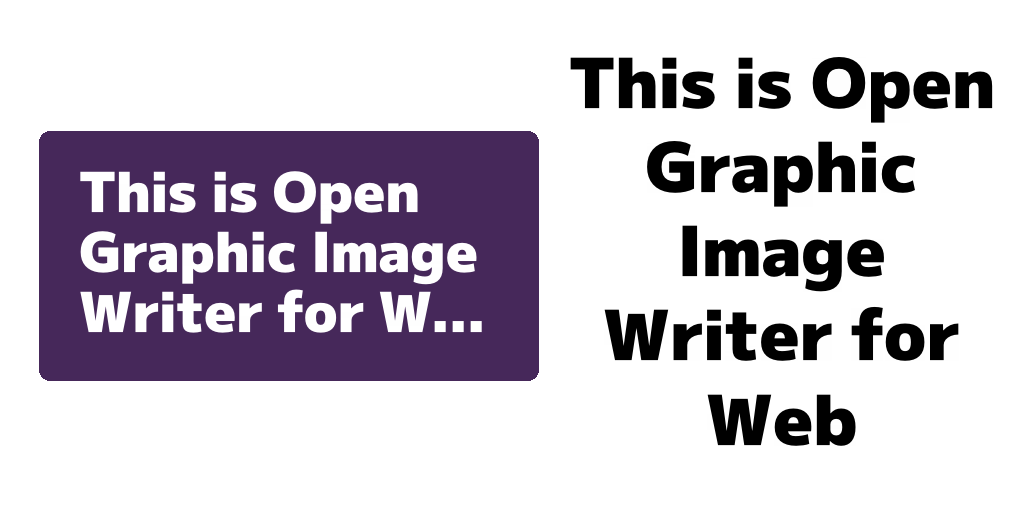
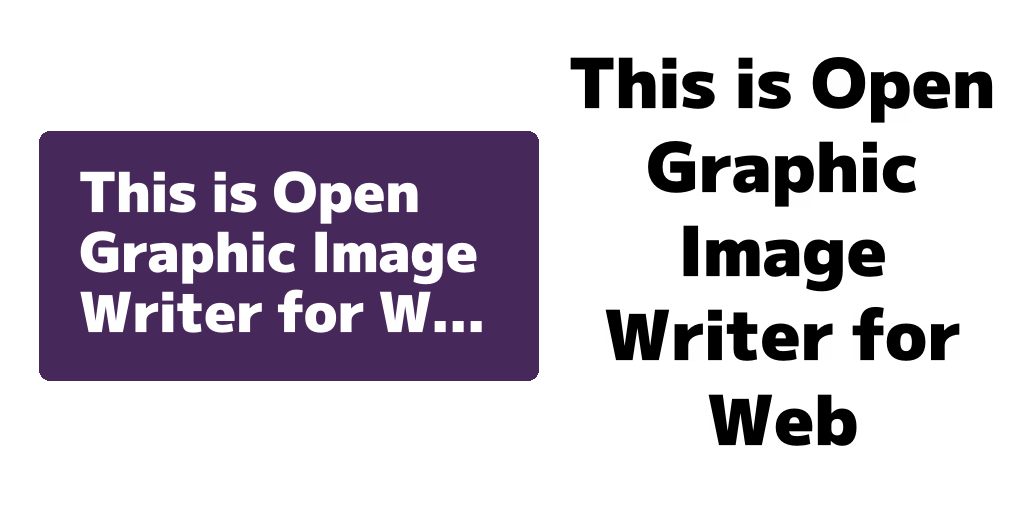
fix: fix margin process

diff --git a/og_image_writer/src/layout.rs b/og_image_writer/src/layout.rs
@@ -20,26 +20,21 @@ impl<'a> OGImageWriter<'a> {
         let mut current_y = self.calculate_logical_block() as i32;
         let mut current_x = self.calculate_logical_inline() as i32;
 
-        let tree_len = self.tree.len() - 1;
-        let mut idx = 0;
-
         let mut tree = OGImageWriter::create_tree();
         while let Some(mut elm) = self.tree.pop() {
-            let is_last = idx == tree_len;
             if elm.is_absolute() {
                 self.process_absolute(&mut elm);
             } else {
                 match self.window.flex_direction {
                     FlexDirection::Column => {
-                        self.process_column_flexbox(&mut elm, &mut current_y, is_last)
+                        self.process_column_flexbox(&mut elm, &mut current_y)
                     }
                     FlexDirection::Row => {
-                        self.process_row_flexbox(&mut elm, &mut current_x, is_last)
+                        self.process_row_flexbox(&mut elm, &mut current_x)
                     }
                 }
             }
 
-            idx += 1;
             tree.push(elm);
         }
         self.tree.append(&mut tree);
@@ -83,50 +78,31 @@ impl<'a> OGImageWriter<'a> {
         }
     }
 
-    fn process_column_flexbox(&mut self, elm: &mut Element, current_y: &mut i32, is_last: bool) {
+    fn process_column_flexbox(&mut self, elm: &mut Element, current_y: &mut i32) {
         let window_width = self.window.width as i32;
-        let content_width = if self.content.width > self.window.width {
-            window_width
-        } else {
-            self.content.width as i32
-        };
         let is_end = matches!(self.window.justify_content, JustifyContent::End);
         match elm {
             Element::Img(Some(img)) => {
-                let Margin(margin_top, margin_left, margin_bottom, margin_right) = img.style.margin;
+                let Margin(margin_top, margin_right, margin_bottom, margin_left) = img.style.margin;
 
                 let logical_inline = match &self.window.align_items {
                     AlignItems::Start => margin_left,
-                    AlignItems::Center => {
-                        let center_width = window_width / 2 - content_width / 2 + margin_left;
-                        if is_last {
-                            center_width - margin_right
-                        } else {
-                            center_width
-                        }
-                    }
-                    AlignItems::End => window_width - content_width - margin_right,
+                    AlignItems::Center => window_width / 2 - img.rect.width as i32 / 2 + margin_left - margin_right,
+                    AlignItems::End => window_width - img.rect.width as i32 - margin_right,
                 };
 
-                let content_box_inline = match img.style.text_align {
-                    TextAlign::Start => 0,
-                    TextAlign::Center => content_width / 2 - (img.width as i32 / 2),
-                    TextAlign::End => content_width - img.width as i32,
-                } + logical_inline;
-
-                img.rect.x = content_box_inline as u32;
+                img.rect.x = logical_inline as u32;
 
                 if is_end {
-                    img.rect.y += (*current_y - img.height as i32 - margin_bottom) as u32;
-                    *current_y -= img.height as i32 + margin_top + margin_bottom;
+                    img.rect.y += (*current_y - img.rect.height as i32 - margin_bottom) as u32;
+                    *current_y -= img.rect.height as i32 + margin_top + margin_bottom;
                 } else {
                     img.rect.y += (*current_y + margin_top) as u32;
-                    *current_y += img.height as i32 + margin_top + margin_bottom;
+                    *current_y += img.rect.height as i32 + margin_top + margin_bottom;
                 }
             }
-            // 最後の要素はmargin_rightを引く
             Element::Text(Some(text)) => {
-                let Margin(margin_top, margin_left, margin_bottom, margin_right) =
+                let Margin(margin_top, margin_right, margin_bottom, margin_left) =
                     text.style.margin;
 
                 // Because imageproc draw text that include line_height.
@@ -135,19 +111,17 @@ impl<'a> OGImageWriter<'a> {
                 for line in &mut text.lines {
                     let logical_inline = match &self.window.align_items {
                         AlignItems::Start => margin_left,
-                        AlignItems::Center => {
-                            let center_width =
-                                window_width / 2 - text.max_line_width as i32 / 2 + margin_left;
-                            if is_last {
-                                center_width - margin_right
-                            } else {
-                                center_width
-                            }
-                        }
+                        AlignItems::Center => window_width / 2 - text.max_line_width as i32 / 2 + margin_left - margin_right,
                         AlignItems::End => window_width - text.max_line_width as i32 - margin_right,
                     };
 
-                    line.rect.x += logical_inline as u32;
+                    let content_box_inline = match text.style.text_align {
+                        TextAlign::Start => 0,
+                        TextAlign::Center => text.max_line_width as i32 / 2 - line.rect.width as i32 / 2,
+                        TextAlign::End => text.max_line_width as i32 - line.rect.width as i32,
+                    } + logical_inline;
+
+                    line.rect.x += content_box_inline as u32;
                     if is_end {
                         line.rect.y += (*current_y - text.total_height as i32 - margin_bottom)
                             as u32
@@ -176,54 +150,31 @@ impl<'a> OGImageWriter<'a> {
         }
     }
 
-    fn process_row_flexbox(&mut self, elm: &mut Element, current_x: &mut i32, is_last: bool) {
+    fn process_row_flexbox(&mut self, elm: &mut Element, current_x: &mut i32) {
         let window_height = self.window.height as i32;
-        let elm_height = match elm {
-            Element::Img(Some(img)) => img.height,
-            Element::Text(Some(text)) => text.total_height,
-            _ => 0,
-        };
-        let content_height = if elm_height > self.window.height {
-            window_height
-        } else {
-            elm_height as i32
-        };
         let is_end = matches!(self.window.justify_content, JustifyContent::End);
         match elm {
             Element::Img(Some(img)) => {
-                let Margin(margin_top, margin_left, margin_bottom, margin_right) = img.style.margin;
+                let Margin(margin_top, margin_right, margin_bottom, margin_left) = img.style.margin;
 
                 let logical_block = match &self.window.align_items {
                     AlignItems::Start => margin_top,
-                    AlignItems::Center => {
-                        let center_width = window_height / 2 - content_height / 2 + margin_top;
-                        if is_last {
-                            center_width - margin_bottom
-                        } else {
-                            center_width
-                        }
-                    }
-                    AlignItems::End => window_height - content_height - margin_bottom,
+                    AlignItems::Center => window_height / 2 - img.rect.height as i32 / 2 + margin_top - margin_bottom,
+                    AlignItems::End => window_height - img.rect.height as i32 - margin_bottom,
                 };
 
-                let content_box_block = match img.style.text_align {
-                    TextAlign::Start => 0,
-                    TextAlign::Center => content_height / 2 - (img.height as i32 / 2),
-                    TextAlign::End => content_height - img.height as i32,
-                } + logical_block;
-
-                img.rect.y = content_box_block as u32;
+                img.rect.y = logical_block as u32;
 
                 if is_end {
-                    img.rect.x += (*current_x - img.width as i32 - margin_right) as u32;
-                    *current_x -= img.width as i32 + margin_left + margin_right;
+                    img.rect.x += (*current_x - img.rect.width as i32 - margin_right) as u32;
+                    *current_x -= img.rect.width as i32 + margin_left + margin_right;
                 } else {
                     img.rect.x += (*current_x + margin_left) as u32;
-                    *current_x += img.width as i32 + margin_left + margin_right;
+                    *current_x += img.rect.width as i32 + margin_left + margin_right;
                 }
             }
             Element::Text(Some(text)) => {
-                let Margin(margin_top, margin_left, margin_bottom, margin_right) =
+                let Margin(margin_top, margin_right, margin_bottom, margin_left) =
                     text.style.margin;
 
                 // Because imageproc draw text that include line_height.
@@ -232,14 +183,7 @@ impl<'a> OGImageWriter<'a> {
                 for line in &mut text.lines {
                     let logical_block = match &self.window.align_items {
                         AlignItems::Start => margin_top,
-                        AlignItems::Center => {
-                            let center_width = window_height / 2 - content_height / 2 + margin_top;
-                            if is_last {
-                                center_width - margin_bottom
-                            } else {
-                                center_width
-                            }
-                        }
+                        AlignItems::Center => window_height / 2 - text.total_height as i32 / 2 + margin_top - margin_bottom,
                         AlignItems::End => {
                             self.window.height as i32
                                 - text.total_height as i32
@@ -249,6 +193,12 @@ impl<'a> OGImageWriter<'a> {
                     };
 
                     line.rect.y += logical_block as u32;
+
+                    line.rect.x += match text.style.text_align {
+                        TextAlign::Start => 0,
+                        TextAlign::Center => text.max_line_width as i32 / 2 - line.rect.width as i32 / 2,
+                        TextAlign::End => text.max_line_width as i32 - line.rect.width as i32,
+                    } as u32;
 
                     if is_end {
                         line.rect.x +=
@@ -285,14 +235,14 @@ impl<'a> OGImageWriter<'a> {
                 img.rect.x += match (img.style.left, img.style.right) {
                     (Some(left), _) => left as i32 + margin_left,
                     (None, Some(right)) => {
-                        self.window.width as i32 - img.width as i32 - right - margin_right
+                        self.window.width as i32 - img.rect.width as i32 - right - margin_right
                     }
                     (None, None) => margin_left,
                 } as u32;
                 img.rect.y += match (img.style.top, img.style.bottom) {
                     (Some(top), _) => top + margin_top,
                     (None, Some(bottom)) => {
-                        self.window.height as i32 - img.height as i32 - bottom - margin_bottom
+                        self.window.height as i32 - img.rect.height as i32 - bottom - margin_bottom
                     }
                     (None, None) => margin_top,
                 } as u32;

diff --git a/og_image_writer/src/layout/text.rs b/og_image_writer/src/layout/text.rs
@@ -1,7 +1,7 @@
 use super::textarea::TextArea;
 use crate::element::{Element, Line, Rect, Text};
 use crate::line_breaker::LineBreaker;
-use crate::style::{FlexDirection, Margin, Position, Style, TextAlign, TextOverflow};
+use crate::style::{FlexDirection, Margin, Position, Style, TextOverflow};
 use crate::writer::OGImageWriter;
 use crate::Error;
 use rusttype::Font;
@@ -24,7 +24,7 @@ impl<'a> OGImageWriter<'a> {
 
         let window_width = self.window.width as f32;
 
-        let Margin(margin_top, margin_left, margin_bottom, margin_right) = style.margin;
+        let Margin(margin_top, margin_right, margin_bottom, margin_left) = style.margin;
 
         let (left, right) = if matches!(style.position, Position::Absolute) {
             (
@@ -78,17 +78,11 @@ impl<'a> OGImageWriter<'a> {
                 _ => {}
             }
 
-            let content_box_inline = match style.text_align {
-                TextAlign::Start => 0.,
-                TextAlign::Center => max_line_width / 2. - line.width / 2.,
-                TextAlign::End => max_line_width - line.width,
-            };
-
             if lines_len == 1 {
                 total_height = next_height;
                 lines.push(Line::new(
                     line.range,
-                    Rect::new(content_box_inline as u32, 0),
+                    Rect::new(0, 0, line.width as u32, line.height as u32),
                 ));
                 break;
             }
@@ -103,7 +97,7 @@ impl<'a> OGImageWriter<'a> {
             total_height = next_height;
             lines.push(Line::new(
                 line.range,
-                Rect::new(content_box_inline as u32, pos_y as u32),
+                Rect::new(0, pos_y as u32, line.width as u32, line.height as u32),
             ));
         }
 

diff --git a/og_image_writer/src/element.rs b/og_image_writer/src/element.rs
@@ -24,19 +24,19 @@ impl<'a> Element<'a> {
 pub struct Rect {
     pub(super) x: u32,
     pub(super) y: u32,
+    pub(super) width: u32,
+    pub(super) height: u32,
 }
 
 impl Rect {
-    pub fn new(x: u32, y: u32) -> Self {
-        Rect { x, y }
+    pub fn new(x: u32, y: u32, width: u32, height: u32) -> Self {
+        Rect { x, y, width, height }
     }
 }
 
 #[derive(Debug)]
 pub struct Img<'a> {
     pub(super) buf: ImageBuffer<Rgba<u8>, Vec<u8>>,
-    pub(super) width: u32,
-    pub(super) height: u32,
     pub(super) rect: Rect,
     pub(super) style: Style<'a>,
 }
@@ -44,15 +44,11 @@ pub struct Img<'a> {
 impl<'a> Img<'a> {
     pub fn new(
         buf: ImageBuffer<Rgba<u8>, Vec<u8>>,
-        width: u32,
-        height: u32,
         rect: Rect,
         style: Style<'a>,
     ) -> Self {
         Img {
             buf,
-            width,
-            height,
             rect,
             style,
         }

diff --git a/og_image_writer/src/layout/img.rs b/og_image_writer/src/layout/img.rs
@@ -42,9 +42,7 @@ impl<'a> OGImageWriter<'a> {
 
         let img = Element::Img(Some(Img::new(
             buf,
-            size.width,
-            size.height,
-            Rect::new(0, 0),
+            Rect::new(0, 0, size.width, size.height),
             style,
         )));
 
@@ -67,9 +65,7 @@ impl<'a> OGImageWriter<'a> {
 
         let img = Element::Img(Some(Img::new(
             buf,
-            size.width,
-            size.height,
-            Rect::new(0, 0),
+            Rect::new(0, 0, size.width, size.height),
             style,
         )));
 

diff --git a/og_image_writer/src/layout/container.rs b/og_image_writer/src/layout/container.rs
@@ -20,9 +20,7 @@ impl<'a> OGImageWriter<'a> {
 
         let img = Element::Img(Some(Img::new(
             image,
-            writer.window.width,
-            writer.window.height,
-            Rect::new(0, 0),
+            Rect::new(0, 0, writer.window.width, writer.window.height),
             style,
         )));
 

diff --git a/og_image_writer/src/style.rs b/og_image_writer/src/style.rs
@@ -68,6 +68,7 @@ pub struct Style<'a> {
     pub word_break: WordBreak,
     /// For Text element
     pub color: Rgba<u8>,
+    /// For Text element
     pub text_align: TextAlign,
     /// For Text element
     pub max_height: Option<u32>,
